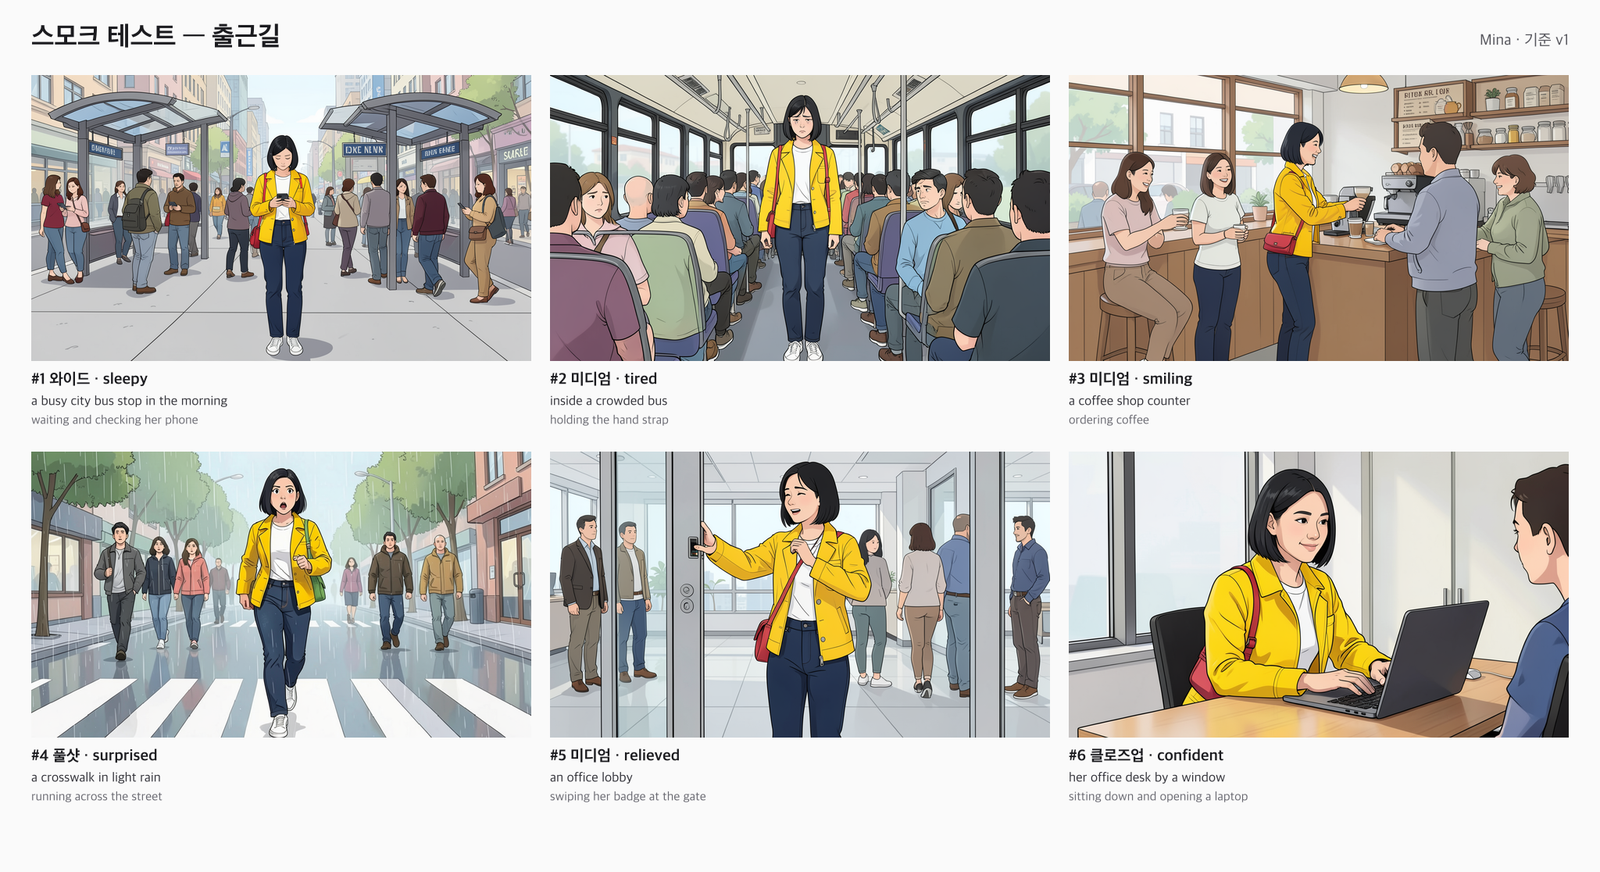
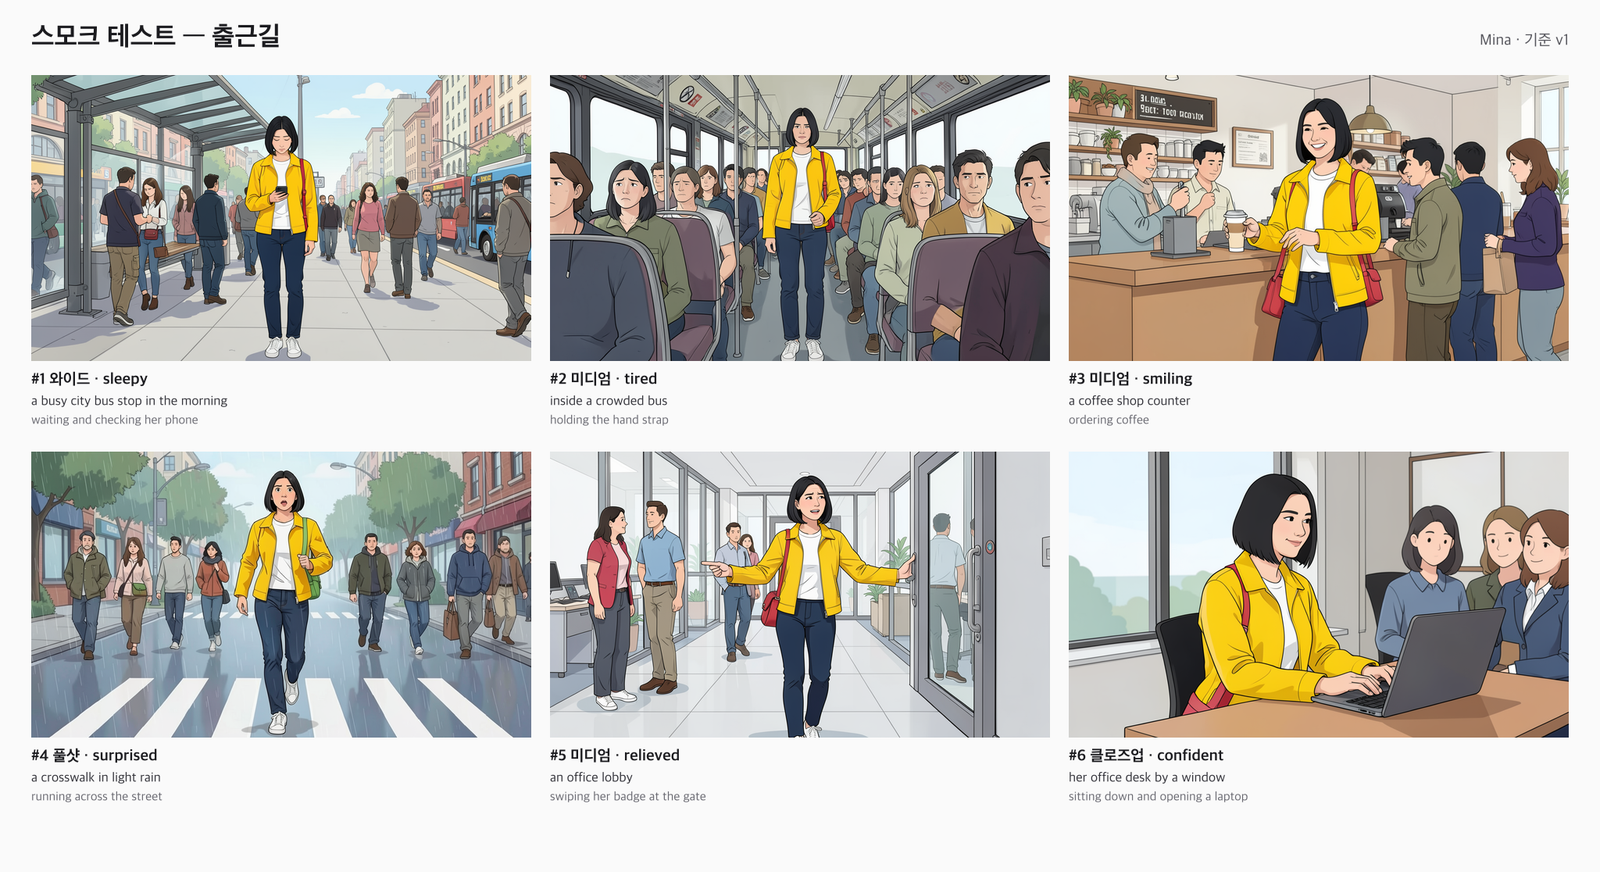
Refresh the README board from a run with the corrected references
Final regression of this round on a fresh copy of GitHub main (Mac
Studio): npm ci (engine-strict), 0 vulnerabilities, typecheck, 49 tests,
real-model smoke generating its references from scratch (body, then the
face from it), 6 cuts + edit + masked edit with 0 pixels changed outside
the mask, other approved cuts preserved, integrity OK. A real-model UI
walkthrough covered autosave, comparing candidates before approval,
keyboard approval, a click-only rectangle masked edit, spawning a
storyboard with the same character, delete + undo, and the report page,
with no page errors.

The only inaccuracy found: the README board came from the old full-body
"face" reference; it is replaced with this run's board.

diff --git a/README.md b/README.md
@@ -14,7 +14,7 @@
 
 ## 실제 실행 결과
 
-`npm run smoke:comfy`가 Mac Studio M5 Ultra에서 실제 모델로 만든 결과입니다. 기준 이미지 2장([examples/mina](examples/mina/))도 같은 모델이 텍스트만으로 만든 가상 인물입니다. 컷마다 후보를 1개씩만 만들었고, 고르지 않고 그대로 승인했습니다.
+`npm run smoke:comfy`가 Mac Studio M5 Ultra에서 실제 모델로 만든 결과입니다. 기준 이미지 2장([examples/mina](examples/mina/))도 같은 모델로 만든 가상 인물입니다. 전신은 텍스트만으로, 얼굴 클로즈업은 그 전신 사진을 참조로 만들었습니다. 컷마다 후보를 1개씩만 만들었고, 고르지 않고 그대로 승인했습니다.
 
 ![실제 6컷 보드](docs/images/board.png)
 
